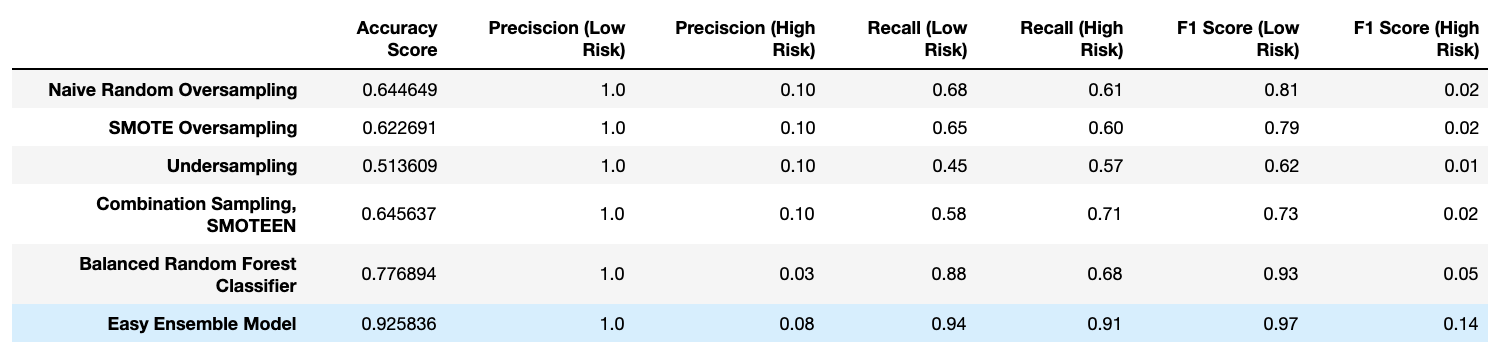
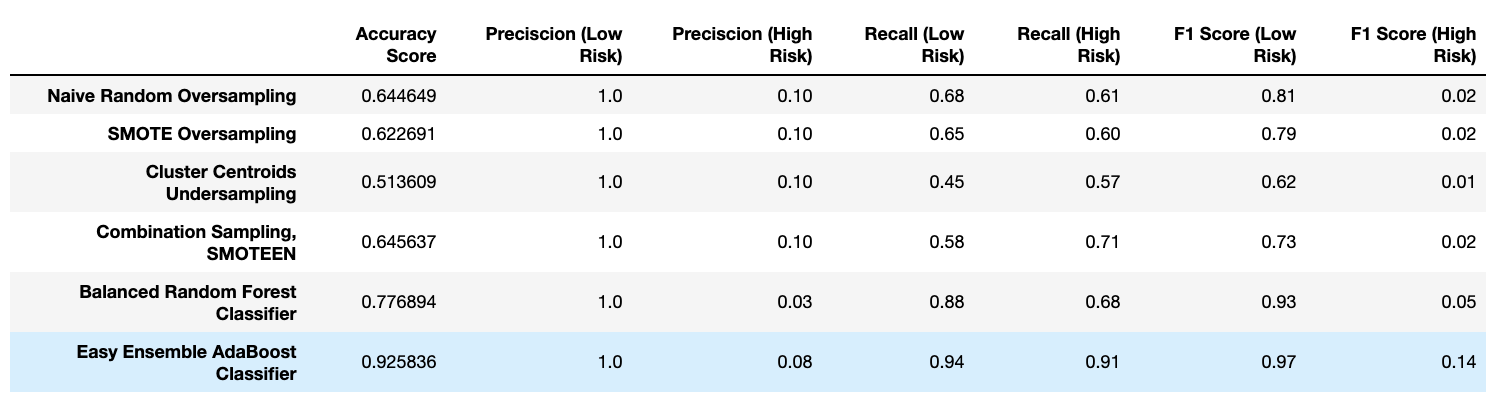
Updated README.md

diff --git a/README.md b/README.md
@@ -1,1 +1,97 @@
 # Credit_Risk_Analysis
+Comparing sampling techniques to classify low and high risk loan applicants.
+
+## Overview
+Credit card companies must evaluate new customer credit applications to assess the applicant's credit risk. In general, an applicant that has a lower likelihood of paying back their full loan or credit amount is higher risk and less likely to be approved for a new credit card. 
+
+There are many factors that can go into predicting an applicant's likelihood to pay off their credit card balance. Some of these are fairly straightforward - like previous loan approvals, home ownership, or credit score, however there may be other less obvious factors that can be helpful in predicting credit risk. 
+
+The goal of this project is to build a classification model that can predict if an applicant is likelky to have low or high credit risk. The credit card company can use this information to determine whether or not an applicant should be approved. 
+
+First, we will be using different sampling methods from the Scikit-learn library to investigate the impact of sampling technique on model performance using logistic regression. We will then build two ensemble classifiers (BalancedRandomForestClassifier and EasyEnsembleClassifier) and compare the performance from all six models to identify which performs the best. Our criteria for assessing model performance are:
+
+    1. *Accuracy Score* - a measure of how likely a model is to label all predictions correctly.
+    2. *Preciscion* - a classifier's ability to accurately label samples and minimize false positives or negatives
+    3. *Recall* (Sensitivity) - a classifier's ability to find all the positive or negative samples. In this scenario, the higher the recall, the less chance there is that a high risk applicant will be classified as low risk and vice versa.
+
+
+## Results
+
+#### *Naive Random Oversampling (ROS)
+The first model was trained with data sampled using the naive random overampling technique, which increases sampling from the minority class until both classes are balanced.
+
+![]("images/naive_ros.png")
+
+* **Balanced Accuracy Score**: This model accurately predicts credit risk 64.4% of the time when the minority class is balanced by oversampling.
+
+* **Preciscion**: The precision of this model is 0.01 for high risk and 1.00 for low risk applicants. This means that 100% of the predicted low risk applicants are actually low risk, but only 1% of the predicted high risk applicants are actually high risk. 
+
+* **Recall**: The recall of this model is 0.61 for high risk, and 0.68 for low risk applicants. This means that 61% of high risk applicants are classified as high risk and 68% of low risk applicants are classified as low risk.
+
+
+#### *SMOTE Oversampling
+The data for our second model was selected using the SMOTE oversampling technique. This method also oversamples from the minority class to balance the classes, however with SMOTE, the distance between neighboring datapoints is taken into account to generate synthetic data.
+
+![]("images/smote.png")
+
+* **Balanced Accuracy Score**: The SMOTE oversampling model has a slightly lower accuracy score than Naive ROS. This model makes accurate predictions of credit risk 62.2% of the time.
+
+* **Preciscion**: SMOTE oversampling gives the same model preciscion score as the model trained with Naive ROS (1.00 and 0.01 for low and high risk respectively). Both models inaccurately classify 90% of high risk applicants as low risk.
+
+* **Recall**: The recall for this model is slightly worse than the recall from the model trained with Naive ROS. 60% of high risk applicants are categorized as high risk and 65% of low risk applicants are classified as low risk.
+
+#### *Undersampling (Cluster Centroids)
+The data for the third model was sampled using the Cluster Centroid undersampling technique. This method generates synthetic data points from the majority class and then undersamples the majority class to match the size of the minority class. 
+
+![]("images/undersampling.png")
+
+* **Balanced Accuracy Score**: Undersampling the majority class gives the lowest accuracy score so far at 51.3%, which is only slightly better than random chance.
+
+* **Preciscion**: The precision scores for this model are the same as the first two models.
+
+* **Recall**: THe recall scores for this model are also the lowest thus far. Only 45% of high risk applicants and 57% of low risk applicants are classified correctly. If this model were used to predict risk and approve/deny accordingly, this model would classify more than half of low risk applicants as high risk and nearly half of high risk applicants as low risk.
+
+#### *Combination Sampling (SMOTEEN)
+The fourth model was trained with data sampled with the SMOTEEN technique. This method oversamples from the minority class, and outliers are removed from the majority class to undersample. This balances the classes while reducing outliers that would skew the sythetic values generated by neighbor distance.
+
+![]("images/smoteenn.png")
+
+* **Balanced Accuracy Score**: This model accurately predicts credit risk 64.5% of the time when the classes are balanced by combination over and undersampling.
+
+* **Preciscion**: The precision scores for this model are the same as the first three models.
+
+* **Recall**: This model correctly classifies 71% of high risk applicants and 58% of low risk applicants. This model has the best sensitivity for detecting high risk applicants out of all four sampling models. 
+
+
+#### *Balanced Random Forests Classifier
+We next tried two ensembles models, which improves overall model performance by combining multiple models to help improve accuracty and decrease variance. The Random Forests Classifier is composed of several small decision trees created from random sampling. By using the Balanced Random Forests, we oversample from the minority class to balance the classes.
+
+![]("images/brf.png")
+
+* **Balanced Accuracy Score**: This model accurately predicts credit risk 77.6% of the time when multiple models are combined and the minority class is balanced by oversampling.
+
+* **Preciscion**: This model has the highest precision for classifying high risk applicants compared to models built from sampling techniques alone, but with a precision score of 0.03 this model still classifies 97% of high risk applicants as low risk. This model has the same preciscion score for classifying low risk applicants as the previous models (100%).
+
+* **Recall**: This model correctly identifies 88% of low risk applicants as low risk, and 68% of high risk applicants as high risk. Though the recall score for high risk applicants is 3% lower than the recall score from the SMOTEENN model, the high recall score for low risk makes this ensemble model a better performer than models built from sampling techniques alone.
+
+* **Ranked Features**: One of the benefits of the balanced random forests model is that we can rank features by importance, or the weight the model gives each feature in predicting outcomes. The top five features that were identified by the model as good predictors of credit risk were total recorded principle payment (or the payment toward the original amount of the loan), total recorded interest payment (or the amount of each payment that goes toward interest), last payment amount, total payment invoice, and total payment. Dropping the least important features from the training data may improve model performance.
+
+![]("images/brf_features.png)
+
+#### *Easy Ensemble Classifier
+The final model that we generated for this analysis was built using an easy ensemble classifier with adaptive boosting, or AdaBoost. Using AdaBoost, a model is trained and then evaluated. The errors of the first model are given extra weight when the subsequent model is trained and so on until the error rate is minimized.  
+
+![]("images/easy_ensemble.png")
+
+* **Balanced Accuracy Score**: This model accurately predicts credit risk 92.5% of the time when multiple models are trained sequentially on a balanced dataset to minimize error. 
+
+* **Preciscion**: The precision score for correclty identifying high risk applicants is 8%, which is the highest for all 6 models. The preciscion score for low risk applicants is 100%, which is the same as the other models.
+
+* **Recall**: In this model, 91% of high risk and 94% of low risk applicants were correctly identified, which is the highest recall score of all the models. 
+
+## Summary
+![]("images/ensemble_summary.png")
+
+Above is a summary of the the balanced accuracy, precisicon, recall, and f1 scores for all 6 models. In terms of overall performance, the Cluster Centroid Undersampling model performed the worst, followed next by the SMOTE oversampling model, and Naive Random Oversampling models. In general, the ensemble models (Balanced Random Forests and AdaBoost) performed better with a higher precision and recall rates for correctly predicting high risk credit applicants. 
+
+The AdaBoost Ensemble model outperformed all other models in terms of correctly identifying high-risk applicants. Therefore, we would reccomend using this model to predict credit risk. The caveat to this model is a high false positive rate. Of the applicants that are predicted to be high risk, only 8% of them will actually be high risk. In this scenario though, it is better for the model to have greater senstivity than precision because the credit card company would rather wrongly classify low risk applicants as high risk, than have high risk applicants classified as low risk thus approving them for a credit card or loan they are unable to repay. 
